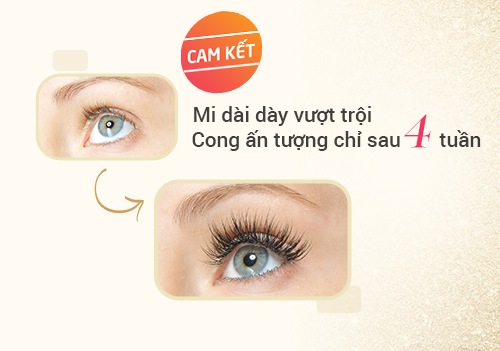
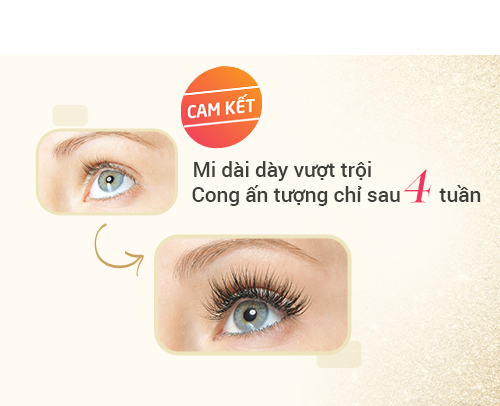
slider add blank top

diff --git a/Zaloka/javascript/common.js b/Zaloka/javascript/common.js
@@ -85,6 +85,30 @@ function DangKi2() {
     })
 }
 
+function DangKi3() {
+    $.ajax({
+        method: "POST",
+        url: "/Home/ThemUser",
+        data: {
+            Name: $("#name3").val(),
+            Phone: $("#phone3").val(),
+            Email: $("#email3").val(),
+            utm_sourse: getParameterByName('utm_source'),
+            utm_medium: getParameterByName('utm_medium'),
+            utm_campaign: getParameterByName('utm_campaign'),
+            utm_content: getParameterByName('utm_content'),
+            utm_term: getParameterByName('utm_term'),
+        }
+    }).done(function (data) {
+        if (data == "ok") {
+            window.location = "Home/ThankYou";
+        } else {
+            console.log("fail3");
+        }
+    })
+}
+
+
 function getParameterByName(name) {
     name = name.replace(/[\[]/, "\\[").replace(/[\]]/, "\\]");
     var regex = new RegExp("[\\?&]" + name + "=([^&#]*)"),
@@ -115,8 +139,20 @@ $(document).ready(function () {
             DangKi2();
     });
 
+    $("#dangky3").click(function (e) {
+
+
+        $("#phone3").removeClass("missing-field");
+        if ((!$("#phone3").val())) {
+            $("#phone3").addClass("missing-field");
+        }
+        else
+            DangKi3();
+    });
+
     if ($(window).width() < 480) {
         $("#dktvm").attr("href", "#formdangky1");
+        $("#formdangky3").show();
     }
     else {
     }

diff --git a/Zaloka/css/style.css b/Zaloka/css/style.css
@@ -11,6 +11,7 @@ header {
 	z-index: 4;
 	width: 100%;
 	background-color: rgba(255, 255, 255, 0.8);
+    /*background-color:white;*/
 }
 body {margin:0;}
 .logo{
@@ -495,10 +496,10 @@ footer ul {
 		max-width:90%;
 	}
 	#thankyou .thankContent aside{
-		margin-left; 20px;
+		margin-left:20px;
 	}
 	#thankyou .thankContent .product{
-		margin-right; 20px;
+		margin-right: 20px;
 	}
 	.used_head {
 		width: 100%;
@@ -629,4 +630,19 @@ footer ul {
 
 .missing-field {
     border-color:red !important;
+}
+
+.reg_aside2 h2 {
+    color: #CC9933;
+    text-align: center;
+}
+
+.reg_aside2 {
+    border: solid 1px #CC9933;
+    color: #666;
+    background-color: #fff;
+}
+
+#formdangky3{
+    display:none;
 }
